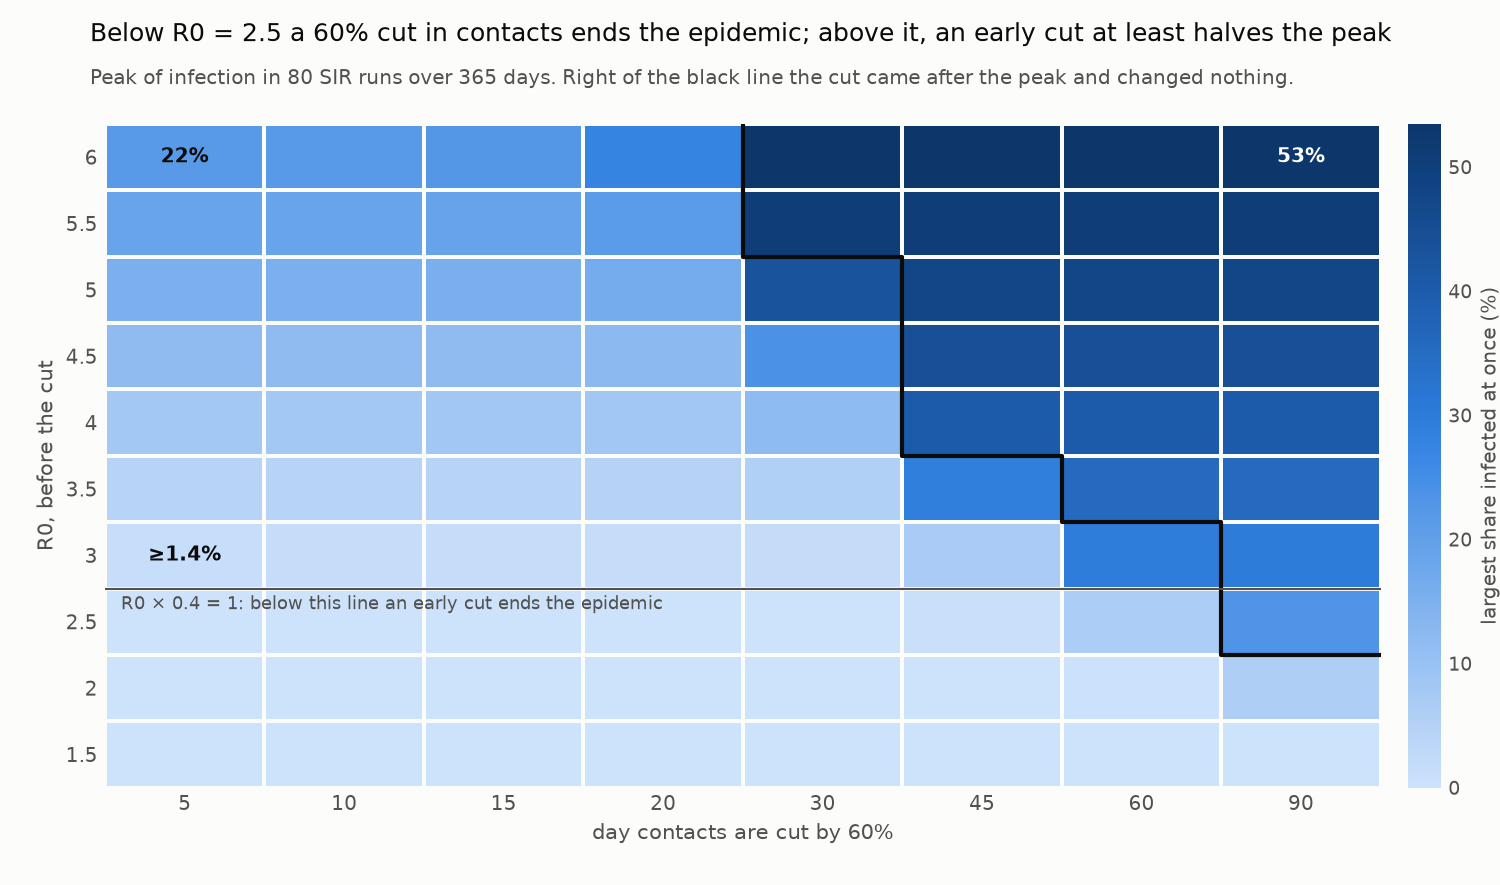
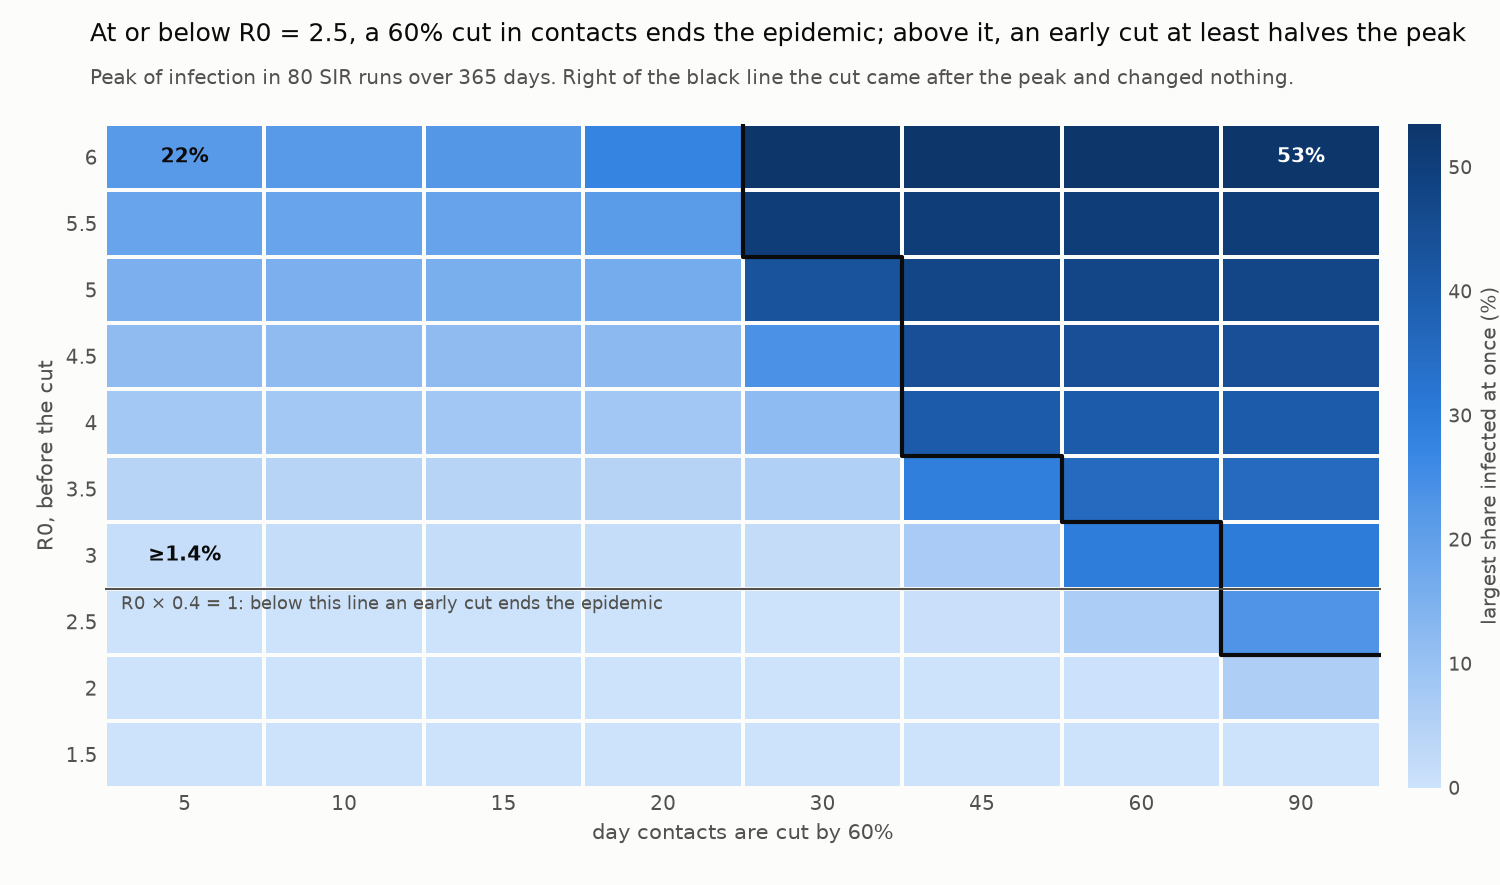
fix(demo): put R0 = 2.5 on the side of the title the figure puts it
The threshold line R0 x 0.4 = 1 is drawn above the R0 = 2.5 row, so that
row is one where a 60% cut ends the epidemic, and the title said "below".
It now says "at or below". The second half was checked row by row: for
every R0 above 2.5 the peak with a cut on day 5 is at most half the peak
with a cut on day 90 (worst ratio 0.41, at R0 = 6; 0.046 at R0 = 3 against
the lower bound).

Changed region(s): [[0.0613, 0.0305, 0.9813, 0.061]]

diff --git a/demo/plot.py b/demo/plot.py
@@ -191,8 +191,8 @@ def draw(grid: Grid, path: Path) -> Path:
     colorbar.outline.set_visible(False)
 
     fig.suptitle(
-        f"Below R0 = {threshold:g} a {100 * grid.reduction:.0f}% cut in contacts ends the "
-        "epidemic; above it, an early cut at least halves the peak",
+        f"At or below R0 = {threshold:g}, a {100 * grid.reduction:.0f}% cut in contacts "
+        "ends the epidemic; above it, an early cut at least halves the peak",
         x=0.06,
         y=0.975,
         ha="left",
